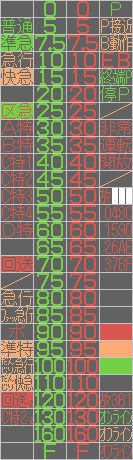
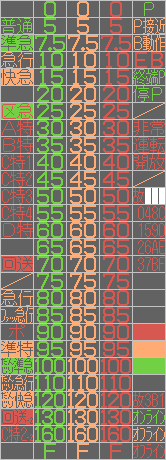
LED表示器更新　E色速度表示追加と、F時の強制110上書き

diff --git a/ControlLED.cs b/ControlLED.cs
@@ -98,7 +98,7 @@ namespace TatehamaATS
                 }
                 var deltaT = DateTime.Now - TestStart;
 
-                var LED = deltaT.Seconds % 3 + 319;
+                var LED = deltaT.Seconds % 3 + 419;
                 var Place = deltaT.Seconds / 3 % 3 + 1;
                 if (deltaT < TimeSpan.FromSeconds(9))
                 {
@@ -169,6 +169,11 @@ namespace TatehamaATS
                         if (L3List.Contains("B動作") || L3List.Contains("EB"))
                         {
                             //赤い方
+                            ledWindow.DisplayImage(2, ConvertToLEDNumber(display.L2) + 200);
+                        }
+                        else if (L3List.Contains("P接近"))
+                        {
+                            //橙の方
                             ledWindow.DisplayImage(2, ConvertToLEDNumber(display.L2) + 100);
                         }
                         else
@@ -238,7 +243,7 @@ namespace TatehamaATS
                 }
                 if (parse == 300)
                 {
-                    return 126;
+                    return 122;
                 }
                 return (parse / 5) + 101;
             }
@@ -276,28 +281,30 @@ namespace TatehamaATS
                     return 13;
                 case "回送":
                     return 15;
-                case "だんじり急行":
+                case "だんじり準急":
                     return 21;
-                case "だんじり快急":
+                case "だんじり急行":
                     return 22;
-                case "回送-2":
+                case "だんじり快急":
                     return 23;
-                case "C特2-2":
+                case "回送-2":
                     return 24;
+                case "C特2-2":
+                    return 25;
                 case "F":
                     return 126;
                 case "P":
-                    return 300;
+                    return 400;
                 case "P接近":
-                    return 301;
+                    return 401;
                 case "B動作":
-                    return 302;
+                    return 402;
                 case "EB":
-                    return 303;
+                    return 403;
                 case "終端P":
-                    return 304;
+                    return 404;
                 case "停P":
-                    return 305;
+                    return 405;
                 default:
                     throw new LEDDisplayStringAbnormal(3, $"未定義:{str}　ControlLED.cs@ConvertToLEDNumber()");
             }

diff --git a/DisplayLED/LEDWindow.cs b/DisplayLED/LEDWindow.cs
@@ -32,7 +32,7 @@ namespace TatehamaATS.DisplayLED
                 Bitmap croppedImage;
                 if (0x180 <= imageNumber && imageNumber <= 0x1FF || 0x280 <= imageNumber && imageNumber <= 0x2FF || 0x380 <= imageNumber && imageNumber <= 0x3FF)
                 {
-                    croppedImage = GetImageByNumber(311);
+                    croppedImage = GetImageByNumber(411);
                     //コード表示無視
                     int codeC = (imageNumber >> 8) & 0xF;
                     Bitmap codeCImage = GetImageByCodeNumber(codeC);
@@ -105,7 +105,7 @@ namespace TatehamaATS.DisplayLED
         /// <returns>切り出された画像</returns>
         private Bitmap GetImageByNumber(int number)
         {
-            int columns = 4;
+            int columns = 5;
             int rows = 27;
             int width = 32;
             int height = 16;
@@ -143,7 +143,7 @@ namespace TatehamaATS.DisplayLED
             int width = 6;
             int height = 16;
             int margin = 1;
-            int dx = 104;
+            int dx = 137;
             int dy = 204;
 
 
